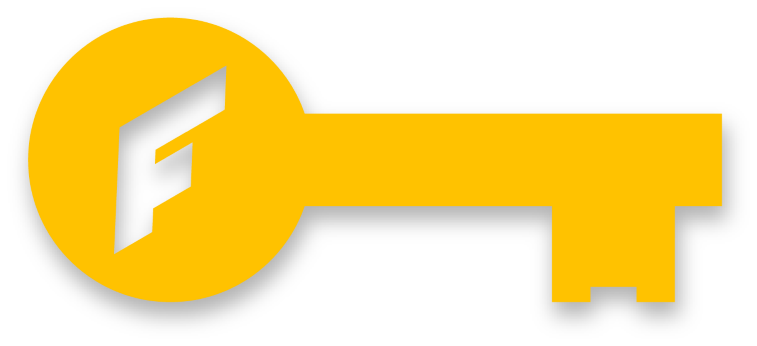
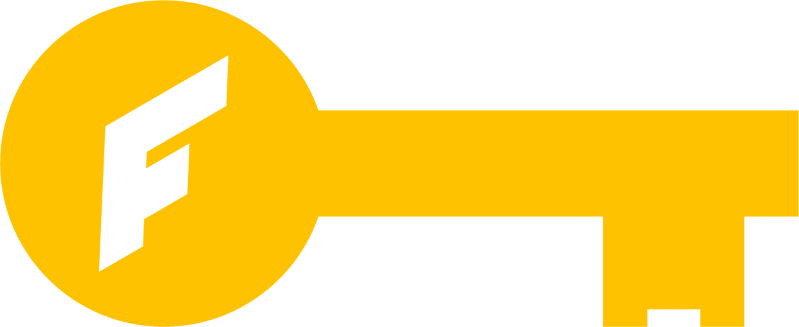
add button

Changed region(s): [[0.0, 0.0, 1.0, 1.0], [0.3342, 0.1223, 0.3646, 0.1835]]

diff --git a/src/apps/finfetch-api/pages/documentation/Documentation.jsx b/src/apps/finfetch-api/pages/documentation/Documentation.jsx
@@ -1,6 +1,7 @@
 import React from "react";
 import "./Documentation.scss";
 import { Prism as SyntaxHighlighter } from "react-syntax-highlighter";
+import { NavLink } from "react-router-dom";
 import { coy } from "react-syntax-highlighter/dist/esm/styles/prism";
 import { Helmet } from "react-helmet";
 import { stockPrice, stockInfo, stockNews } from "./StockResponses";
@@ -22,11 +23,18 @@ export default function Documentation() {
         <div className="documentation-content-container">
           <div className="documentation-header"></div>
           <div className="documentation-content-container-scroll">
+            <div className="documentation-content-header">
+              FinFetch Stock API
+            </div>
             <div className="documentation-register">
               <div className="documentation-register-icon">
                 <img className="key-icon" src={key} alt="FinFetch.io" />
               </div>
-              <div className="documentation-register-button">yo</div>
+              <div className="documentation-register-button">
+                <NavLink to="/api/register">
+                  <button className="register-button">Get free API key</button>
+                </NavLink>
+              </div>
             </div>
             <div className="documentation-content-header">
               API Documentation

diff --git a/src/apps/finfetch-api/pages/documentation/Documentation.scss b/src/apps/finfetch-api/pages/documentation/Documentation.scss
@@ -102,16 +102,35 @@
 .documentation-register {
   display: flex;
   flex-direction: column;
-  row-gap: 0.2rem;
+  // column-gap: 1rem;
   justify-content: center;
   align-items: center;
+  width: 100%;
+  border-bottom: 1px solid #ccc;
+  padding-bottom: 1rem;
 }
 .documentation-register-icon {
   display: flex;
 }
 .documentation-register-button {
+  display: flex;
 }
 .key-icon {
-  height: 5rem;
+  height: 3rem;
   width: 100%;
+}
+.register-button {
+  display: flex;
+  justify-content: center;
+  align-items: center;
+  column-gap: 0.5rem;
+  padding: 0.7rem;
+  margin-top: 1rem;
+  font-size: 18px;
+  border-radius: 25px;
+  border: none;
+  cursor: pointer;
+  background-color: #0b335b;
+  color: #fff;
+  font-weight: 400;
 }
